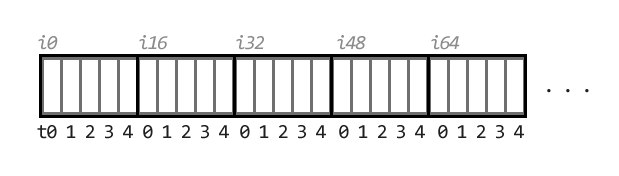
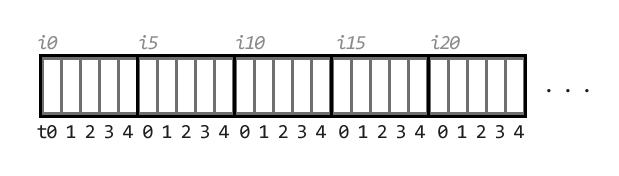
Static init tweaks, better diagrams for compute tips 1

diff --git a/_posts/2016-09-01-static-initialization.md b/_posts/2016-09-01-static-initialization.md
@@ -7,7 +7,7 @@ published: true
 tags: c++, idioms, schwartz, nifty
 ---
 
-In this post we'll discuss the problem of initializing global variables with `static` storage duration, and I'll show you the best solution which C++ has to offer.
+In this post I'll discuss the problem of initializing global variables with `static` storage duration, and show you what I think is the best solution which C++ has to offer.
 
 C++ makes some rather sparse guarantees about the initialization of such global variables:
 
@@ -15,7 +15,7 @@ C++ makes some rather sparse guarantees about the initialization of such global 
 - Initialization happens either prior to the first statement of the main function, or before the first use of the variable.
 - The order of initialization is guaranteed to happen in the same order as the variable declarations appear __within a single translation unit__. Initialization order _between_ translation units is not guaranteed.
 
-In this post we're most concerned with that last one: how can we order the initialization of `static` globals to reflect dependencies in our code?
+That last point is what concerns us most: how can we order the initialization of `static` globals to reflect dependencies in our code?
 
 
 Let's begin with an example which exhibits the behaviour we're talking about. Imagine we have a `Log` singleton which opens a file during initialization and provides a method to write to that file:
@@ -93,14 +93,14 @@ One solution would be to use 'lazy' initialization. During `Log::write()` we sim
 
 {% highlight cpp %}
 void Log::write(const char* _msg) {
-	if (m_file == 0) { // m_file is guaranteed to be zero-initialized
+	if (!m_file) { // m_file is guaranteed to be zero-initialized
 		m_file = fopen("log.txt", "w"); 
 	}
 	fprintf(m_file, _msg);
 }
 {% endhighlight %}
 
-This is simple and it works. But what about deinitialization? The problem remains - it's still possible that `~Log()` will be called before `~Subsystem()`, which means that there is no sensible place to close our log file.
+This is simple and it works. But what about deinitialization? The problem remains - it's still possible that `~Log()` will be called before `~Subsystem()`, which means that there is no sensible place to close our log file. It also means we have to test `m_file` every time we write to the log, which isn't ideal.
 
 ## Solution 2: Explicit Initialization/Deinitialization ##
 
@@ -177,9 +177,9 @@ As you can see, we use `s_count` to ensure that the ctor/dtor are called exactly
 ## Initialization Dependencies ##
 
 What if `Log` depends on another singleton `FileSystem` (to create the log file), but `FileSystem` also depends on `Log` (to print an error message)? The Schwarz counter idiom can't help us here: there's no way to order the initialization of `Log` and `FileSystem` which works. 
-The only advice in this case is to avoid cyclic dependencies like this - remove any `Log->write()` calls from the `FileSystem` ctor/dtor, or vice versa, plus drop an `assert` in `GetInstance()` to check that the init happened. Hopefully these cases will be quite rare and easy to resolve by design. Note that this problem only applies to dependencies in the initialization/deinitialization.
+The only advice in this case is to avoid cyclic dependencies like this - remove any `Log::GetInstance()->write()` calls from the `FileSystem` ctor/dtor, or vice versa, plus drop an `assert` in `GetInstance()` to check that the init happened. Hopefully these cases will be quite rare and easy to resolve by design. Note that this problem only applies to dependencies in the initialization/deinitialization - everywhere else you're safe.
 
 
 ## Conclusion ##
 
-So that's the Schwarz counter - hopefully you can see why it's also called 'Nifty'. If you're writing any software with non-trivial global state (as in the examples), you should be using this idiom.
+So that's the Schwarz counter - hopefully you can see why it's also called 'Nifty'. If you're writing code with non-trivial global state (as in the examples), remember this idiom.

diff --git a/_posts/2016-12-01-compute-tips-1.md b/_posts/2016-12-01-compute-tips-1.md
@@ -1,13 +1,13 @@
 ---
 layout: post
-title: Compute Tips 1 - Memory Access
+title: Compute Tips 1 - Optimal Memory Access
 date: 2016-12-01
 comments: true
 published: true
 tags: compute shader, memory access, cache coherency, hlsl, glsl
 ---
 
-Writing concurrent programs is tricky. Writing _optimal_ concurrent programs is really tricky. Knowing the hardware of the target platform is a must.
+Writing concurrent programs is tricky. Writing _optimal_ concurrent programs is really tricky. Knowing the hardware of the target platform is a must, especially for perf-critical applications like realtime graphics.
 
 It's common to have compute shader threads perform some work on a list of items, e.g. updating a particle system, culling a light list, etc. Each group runs some number of threads, and each thread does some portion of the work. You might therefore write a loop like this:
 
@@ -20,7 +20,7 @@ for (uint i = beg; i < end; ++i) {
 }
 {% endhighlight %}
 
-Here, each thread works directly on its own subsection of the list:
+Here, each thread works directly on its own subsection of the list, for example thread `t0` operates on items `[i0,i4]`, `t1` on items `[i5,i9]`, etc.:
 
 ![Thread-wise list partitioning](/images/list_threadwise.png)
 
@@ -29,6 +29,8 @@ This is a textbook approach for solving 'embarrassingly parallel' problems. The 
 However, this pattern is not optimal on the GPU, where each thread in a group is typically accessing memory via a shared cache. In this case it is preferable to have each thread in a group operate on the same region of memory as it's siblings:
 
 ![Group-wise list partitioning](/images/list_groupwise.png)
+
+In this case, threads `[t0,t4]` operate on items `[i0,i4]` simultaneously, then on items `[i5,i9]` and so on.
 
 This means dividing the work into blocks of `THREAD_COUNT` items. If the list is not exactly divisible by `THREAD_COUNT` this means that some threads will be redundant, but branching in the shader can take care of this (performance for coherent dynamic branching is fine on modern GPUs).
 
